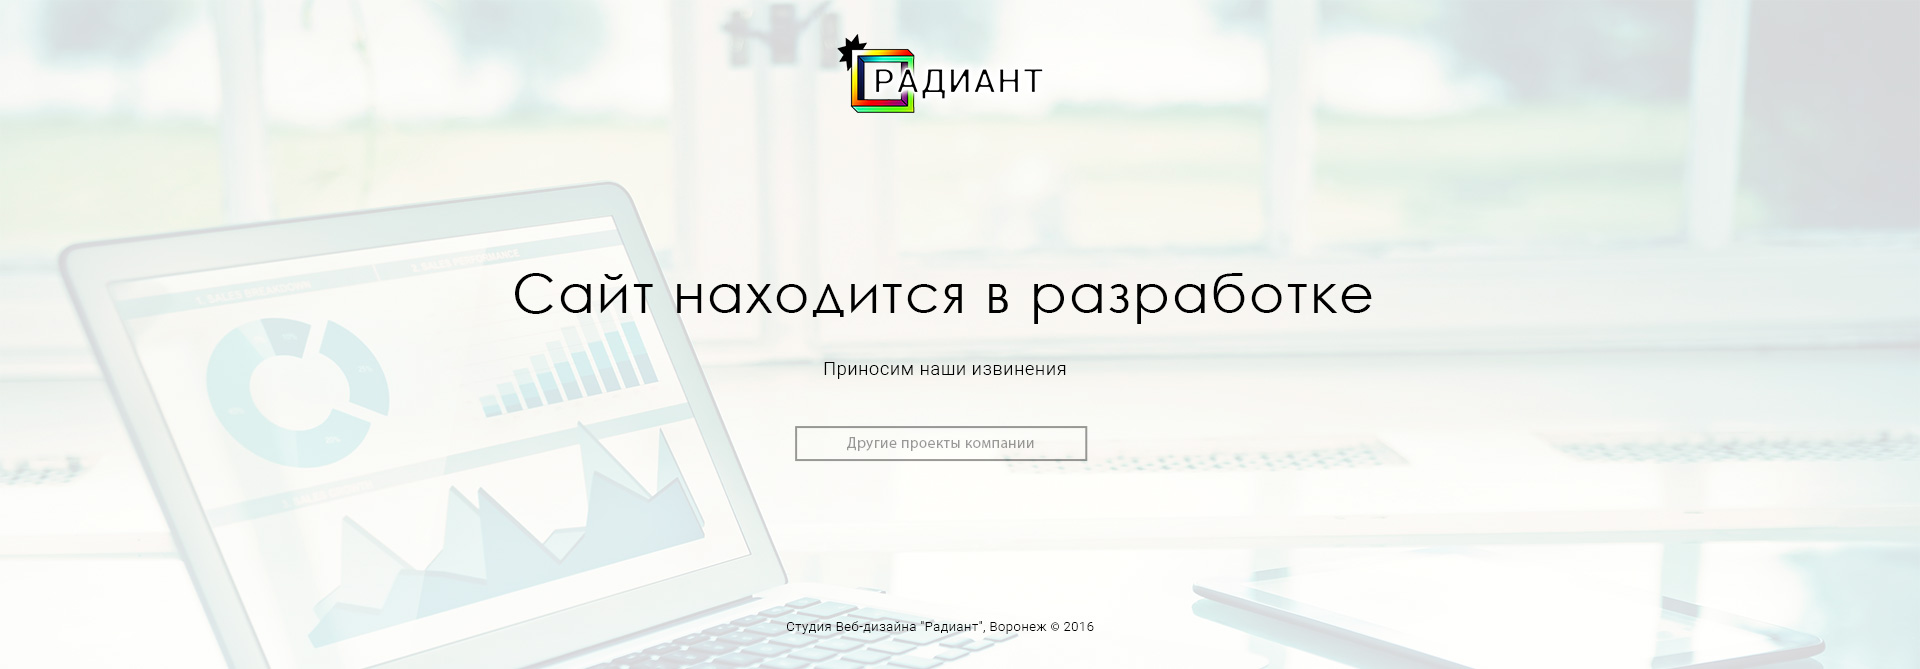
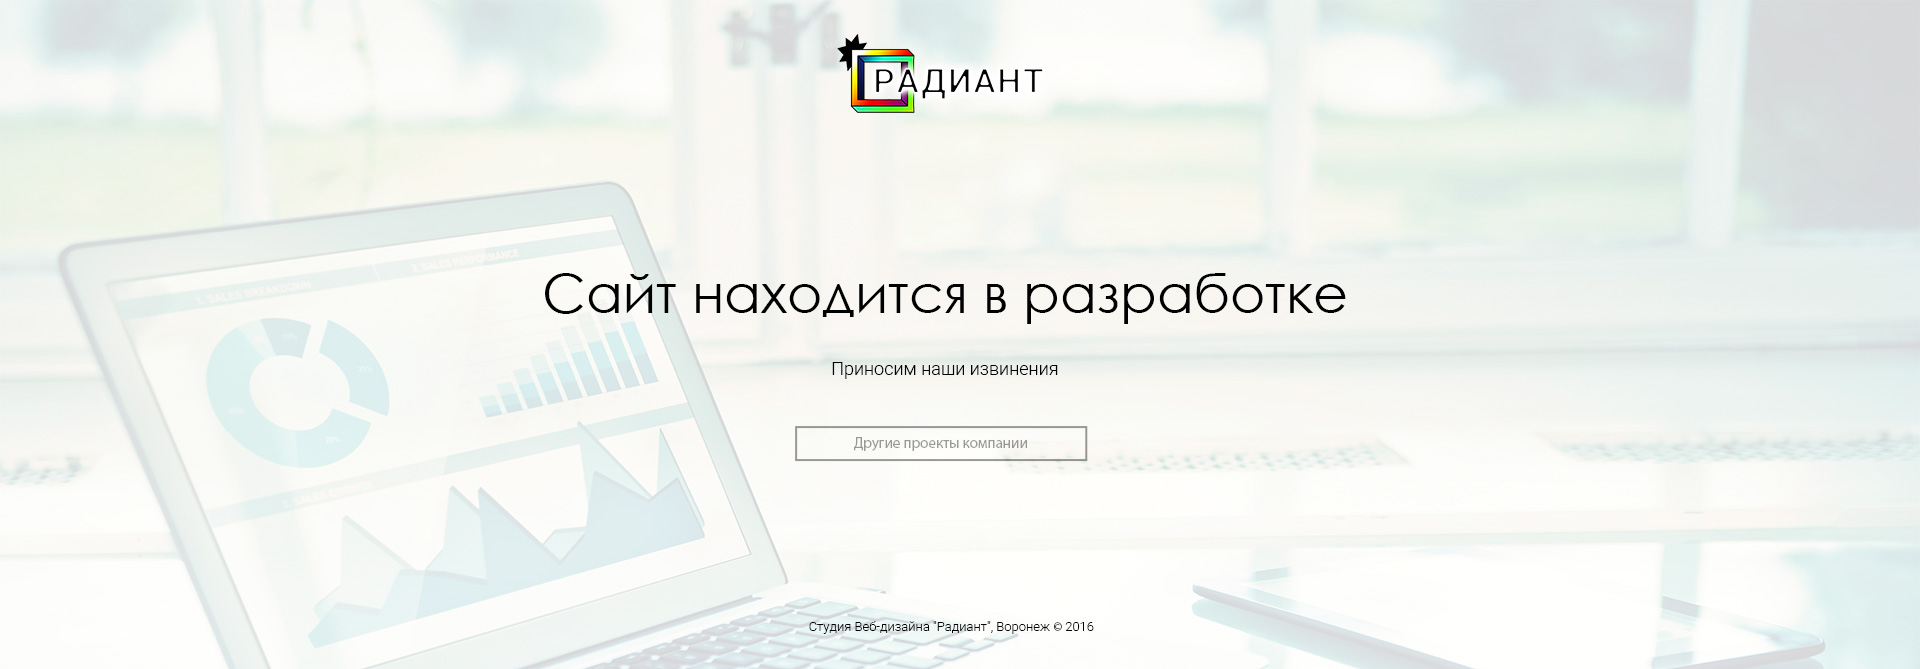
pochemu content vverhu

diff --git a/css/style.css b/css/style.css
@@ -4,39 +4,13 @@
     src: local('Panton Light Caps'), url(../fonts/Pantonlightcaps.ttf); /* Для остальных браузеров */
 }
 
-/*
-
-
-Что такое «Viewport Units»
-
-Viewport Units — это относительные единицы измерения, рассчитывающиеся в процентах от размеров области просмотра браузера. Эти единицы измерения появились в третьей версии спецификации CSS.
-
-Единицы измерения vh и vw
-
-vh и vw можно расшифровать, как viewport height и viewport width — высота и ширина области просмотра соответственно. 1vh равен одному проценту от высоты области просмотра, 1vw равняется одному проценту от ширины области просмотра.
-
-Единицы измерения vmin и vmax
-
-vmin и vmax расшифровывается, как viewport minimal и viewport maximal. 1vmin сравнивает значения 1vh и 1vw, выбирая меньшее из них. 1vmax делает то же самое, но выбирает большее из двух значений. Иначе говоря, если у смартфона ширина экрана меньше высоты, то vmin будет рассчитываться относительно ширины, а vmax будет рассчитываться относительно высоты экрана.
-
-Пример использования
-
-Сейчас в тренде использование полноэкранных секций. Особенно часто их используют в лендингах. Есть много способов сделать такую секцию, однако самый простой и изящный способ — применить единицу измерения vh.
-
-section {
-	height: 100vh; /* высота секции равна высоте области просмотра */
-}
-
-
-*/
-
 .wrapper {
 	height: 100vh;
 	width: 100wh;
 	position: relative;
 }
 
-.header {
+header {
 	width: 100%;
 	position: absolute;
 	top: 0;
@@ -47,6 +21,17 @@ section {
 	height: 79.01px;	
 	margin: 34px auto 0 auto;
 	background-image: url(../img/logo.png);
+}
+
+main{
+	display: table;
+	width: 100%;
+	height: 100%;
+	position: relative;
+}
+
+.cell {
+		display: table-cell;
 
 }
 

diff --git a/index.html b/index.html
@@ -14,14 +14,30 @@
   <body>
     <div class="wrapper">
 		
-		<div class="header"> 
+		<header> 
 		
 			<div class="logo"></div> 
 		
-		</div>
+		</header>
 		
-		<div class="content"></div>
-		<div class="footer"></div>
+		<main>
+		
+			<div class="cell">
+			
+				<h1>Сайт находится в разработке</h1>
+				<p>Приносим наши извинения</p>
+				<a href="index.html">Другие проекты компании</a>
+			
+			</div>
+		
+		</main>
+
+		
+		<footer>
+		
+		
+		</footer>
+		
 	</div>
 	
   </body>
